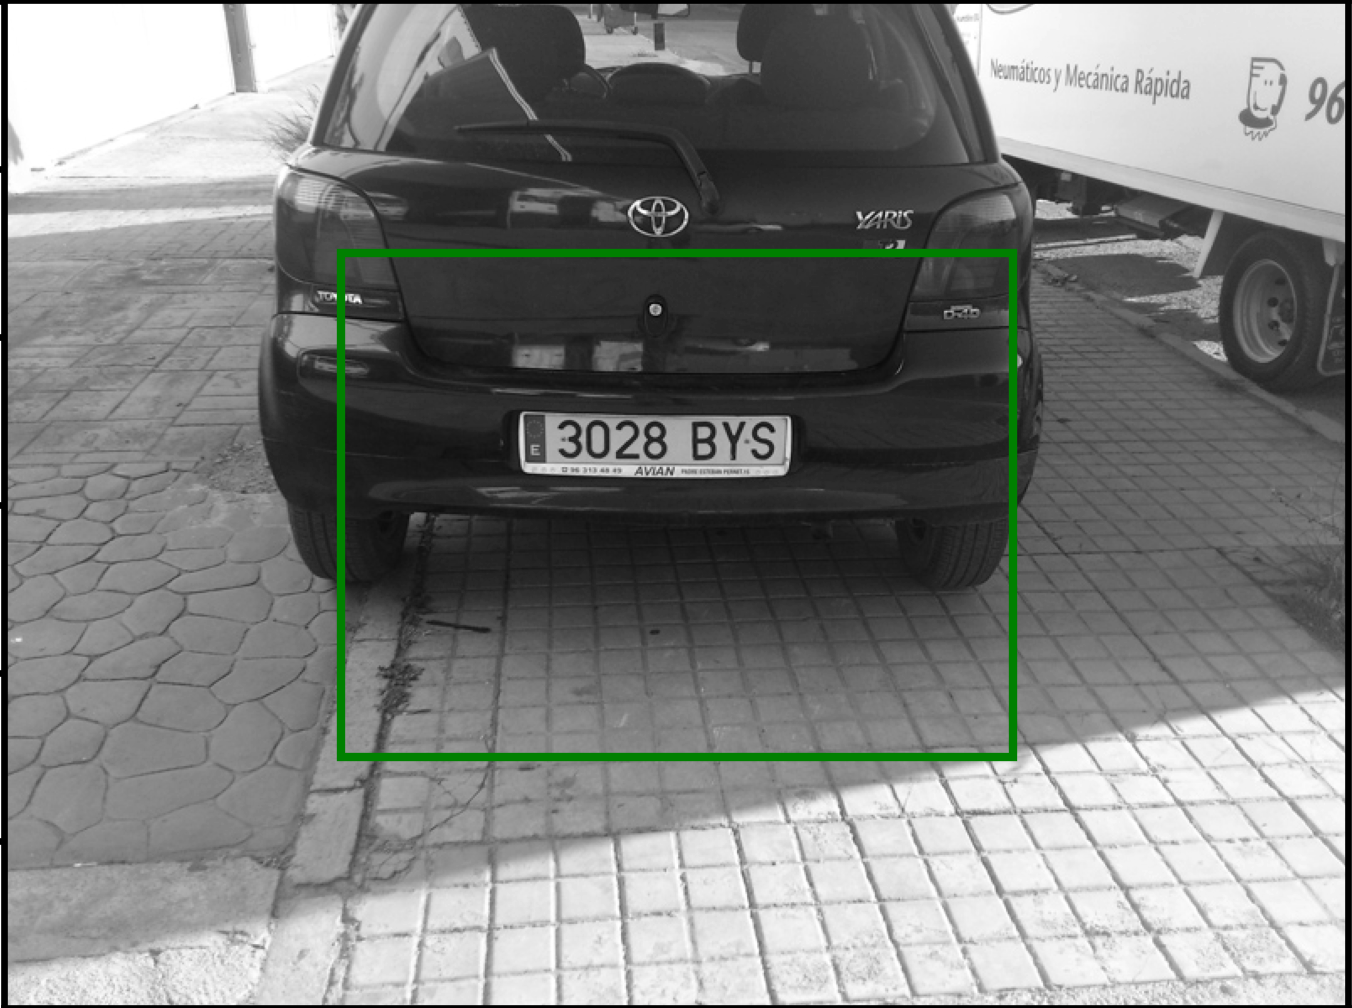
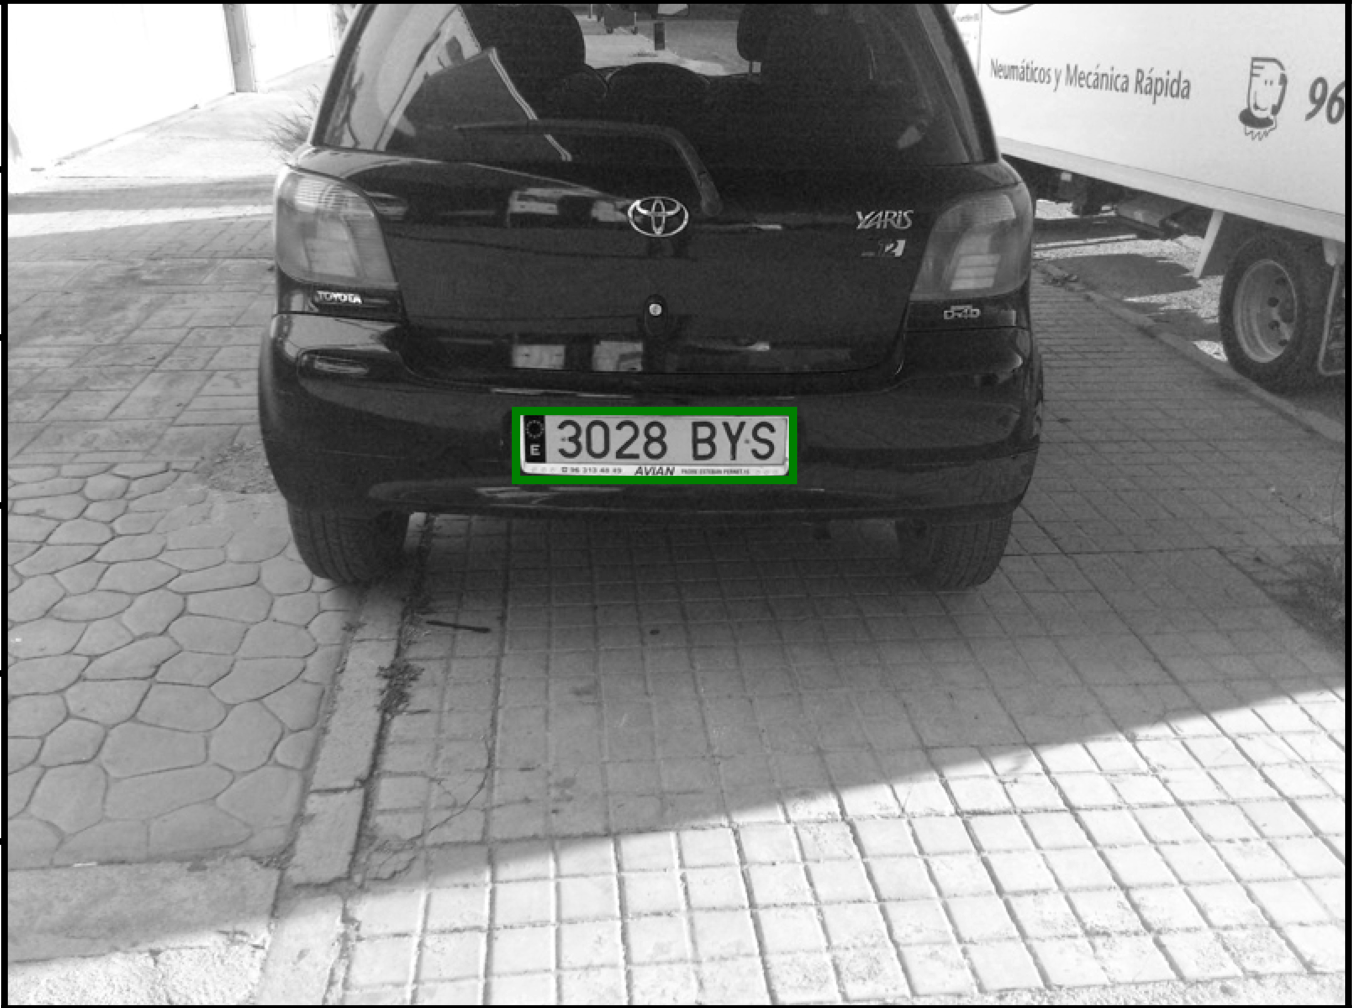
Fixed bug with image half black

diff --git a/CS373LicensePlateDetection.py b/CS373LicensePlateDetection.py
@@ -121,7 +121,7 @@ def computeStandardDeviationImage5x5(pixel_array, image_width, image_height):
     for i, x in enumerate(pixel_array):
         for j, y in enumerate(x):
 
-            if not (i <= 1 or i >= image_height - 2 or j <= 1 or j >= image_height - 2):
+            if not (i <= 1 or i >= image_height - 2 or j <= 1 or j >= image_width - 2):
 
                 slice = pixel_array[i - 2][j - 2:j + 3], pixel_array[i - 1][j - 2:j + 3], pixel_array[i][j - 2:j + 3], pixel_array[i + 1][j - 2:j + 3], pixel_array[i + 2][j - 2:j + 3]
                 sobel = [[1, 1, 1, 1, 1], [1, 1, 1, 1, 1], [1, 1, 1, 1, 1], [1, 1, 1, 1, 1], [1, 1, 1, 1, 1]]
@@ -312,7 +312,7 @@ def main():
     SHOW_DEBUG_FIGURES = True
 
     # this is the default input image filename
-    input_filename = "numberplate5.png"
+    input_filename = "numberplate2.png"
 
     if command_line_arguments != []:
         input_filename = command_line_arguments[0]
@@ -381,6 +381,8 @@ def main():
     bbox_max_x = boxPosition[1]
     bbox_min_y = boxPosition[2]
     bbox_max_y = boxPosition[3]
+
+    px_array = px_array_r
 
     # Draw a bounding box as a rectangle into the input image
     axs1[1, 1].set_title('Final image of detection')
